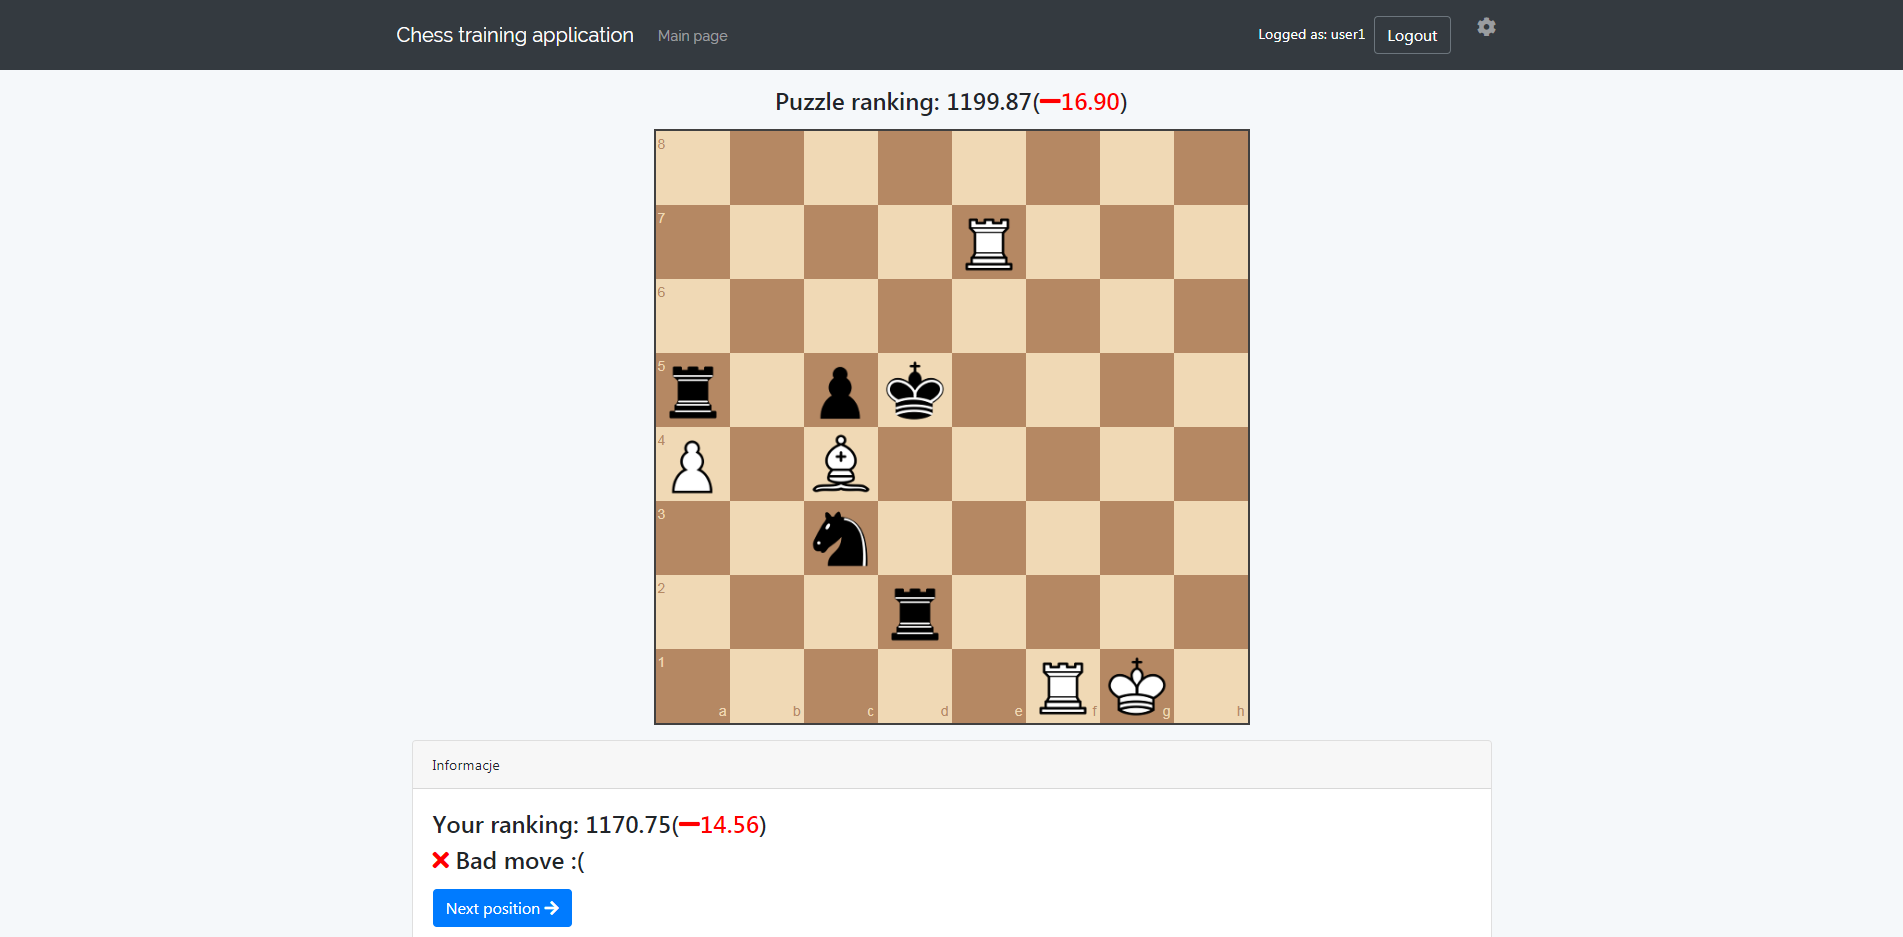
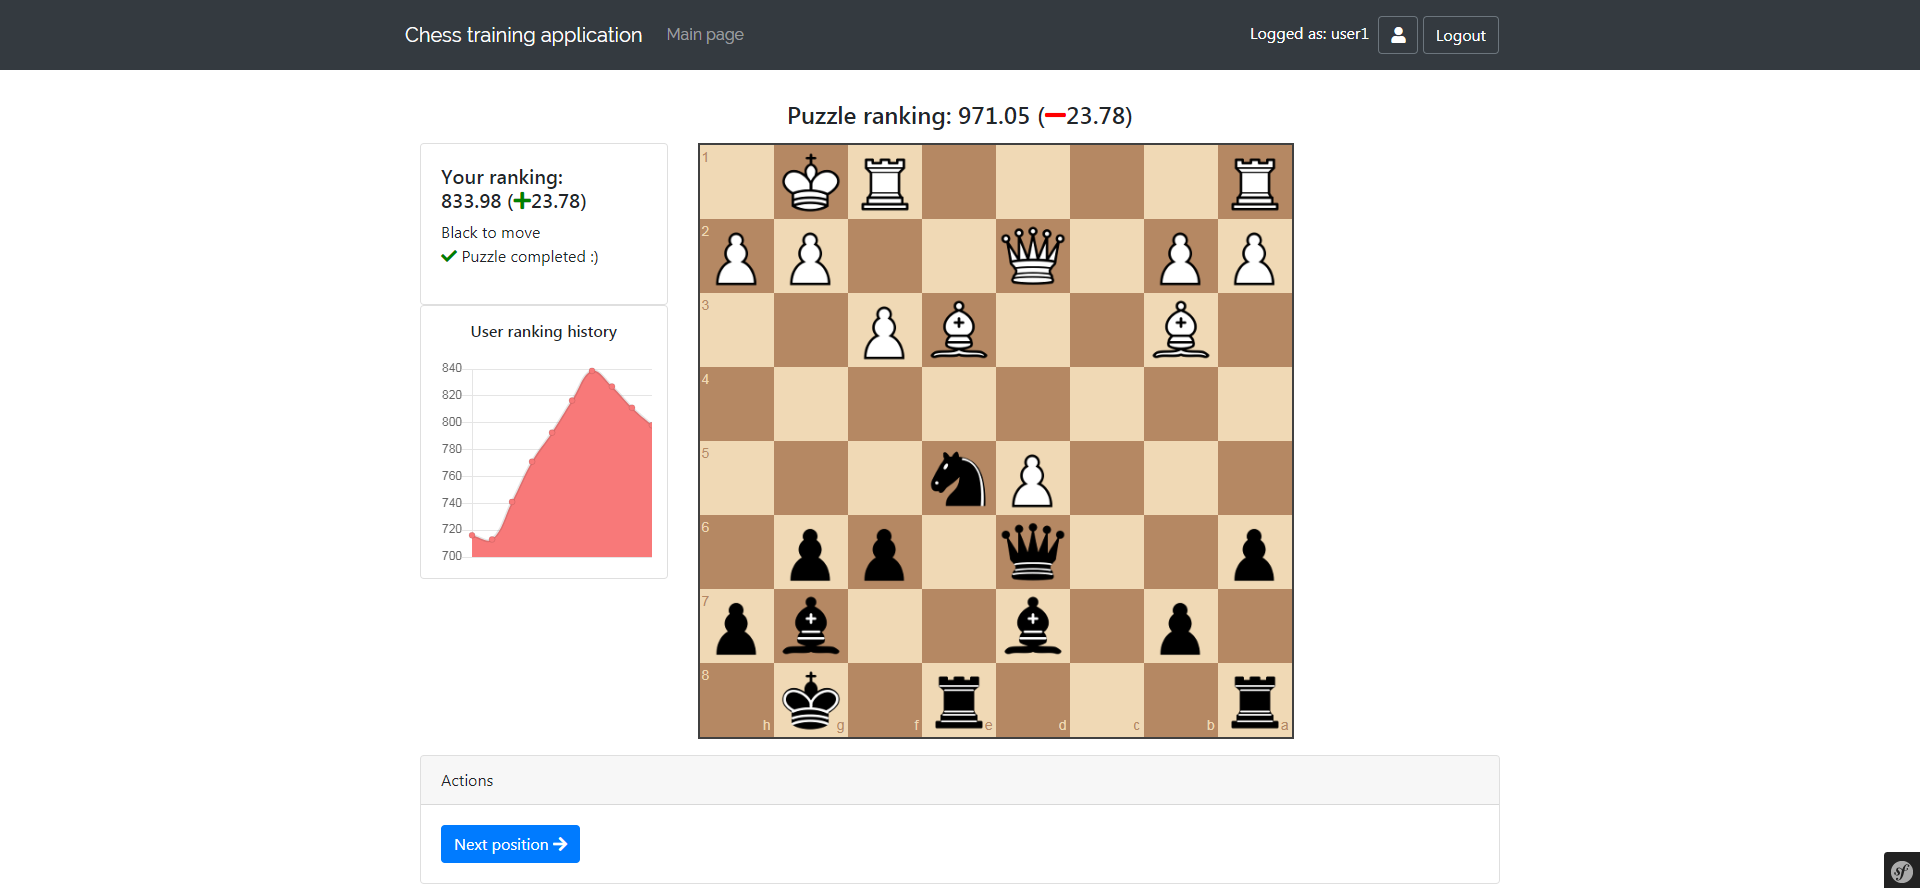
-updated readme and screenshots

diff --git a/README.md b/README.md
@@ -14,6 +14,7 @@ Project is created with:
 * FOSUserBundle for user login/registration
 * RabbitMQ for some asynchronous work
 * Vue.js
+* Vue-chartjs
 * Chess.js
 * Chessboard.js
 * MySQL database
@@ -22,6 +23,7 @@ Project is created with:
 ## Features
 * Solving chess puzzles
 * Computing rating difference for puzzle and user using ELO ranking system.
+* Displaying graphs using Chart.js/vue-chartjs libraries
 * Comes with the admin panel to add new puzzles
 * Comes with the data fixtures to load new user and 10 puzzles. User credentials are: user1/pass1
 
@@ -54,10 +56,10 @@ php bin/console rabbitmq:setup-fabric
 
 ## Screenshots
 
-### Failed puzzle
+### Homepage
 ![Main page](web/img/img2.png)
 
-### Successful puzzle
+### User profile
 ![Main page](web/img/img3.png)
 
 ### Admin panel
